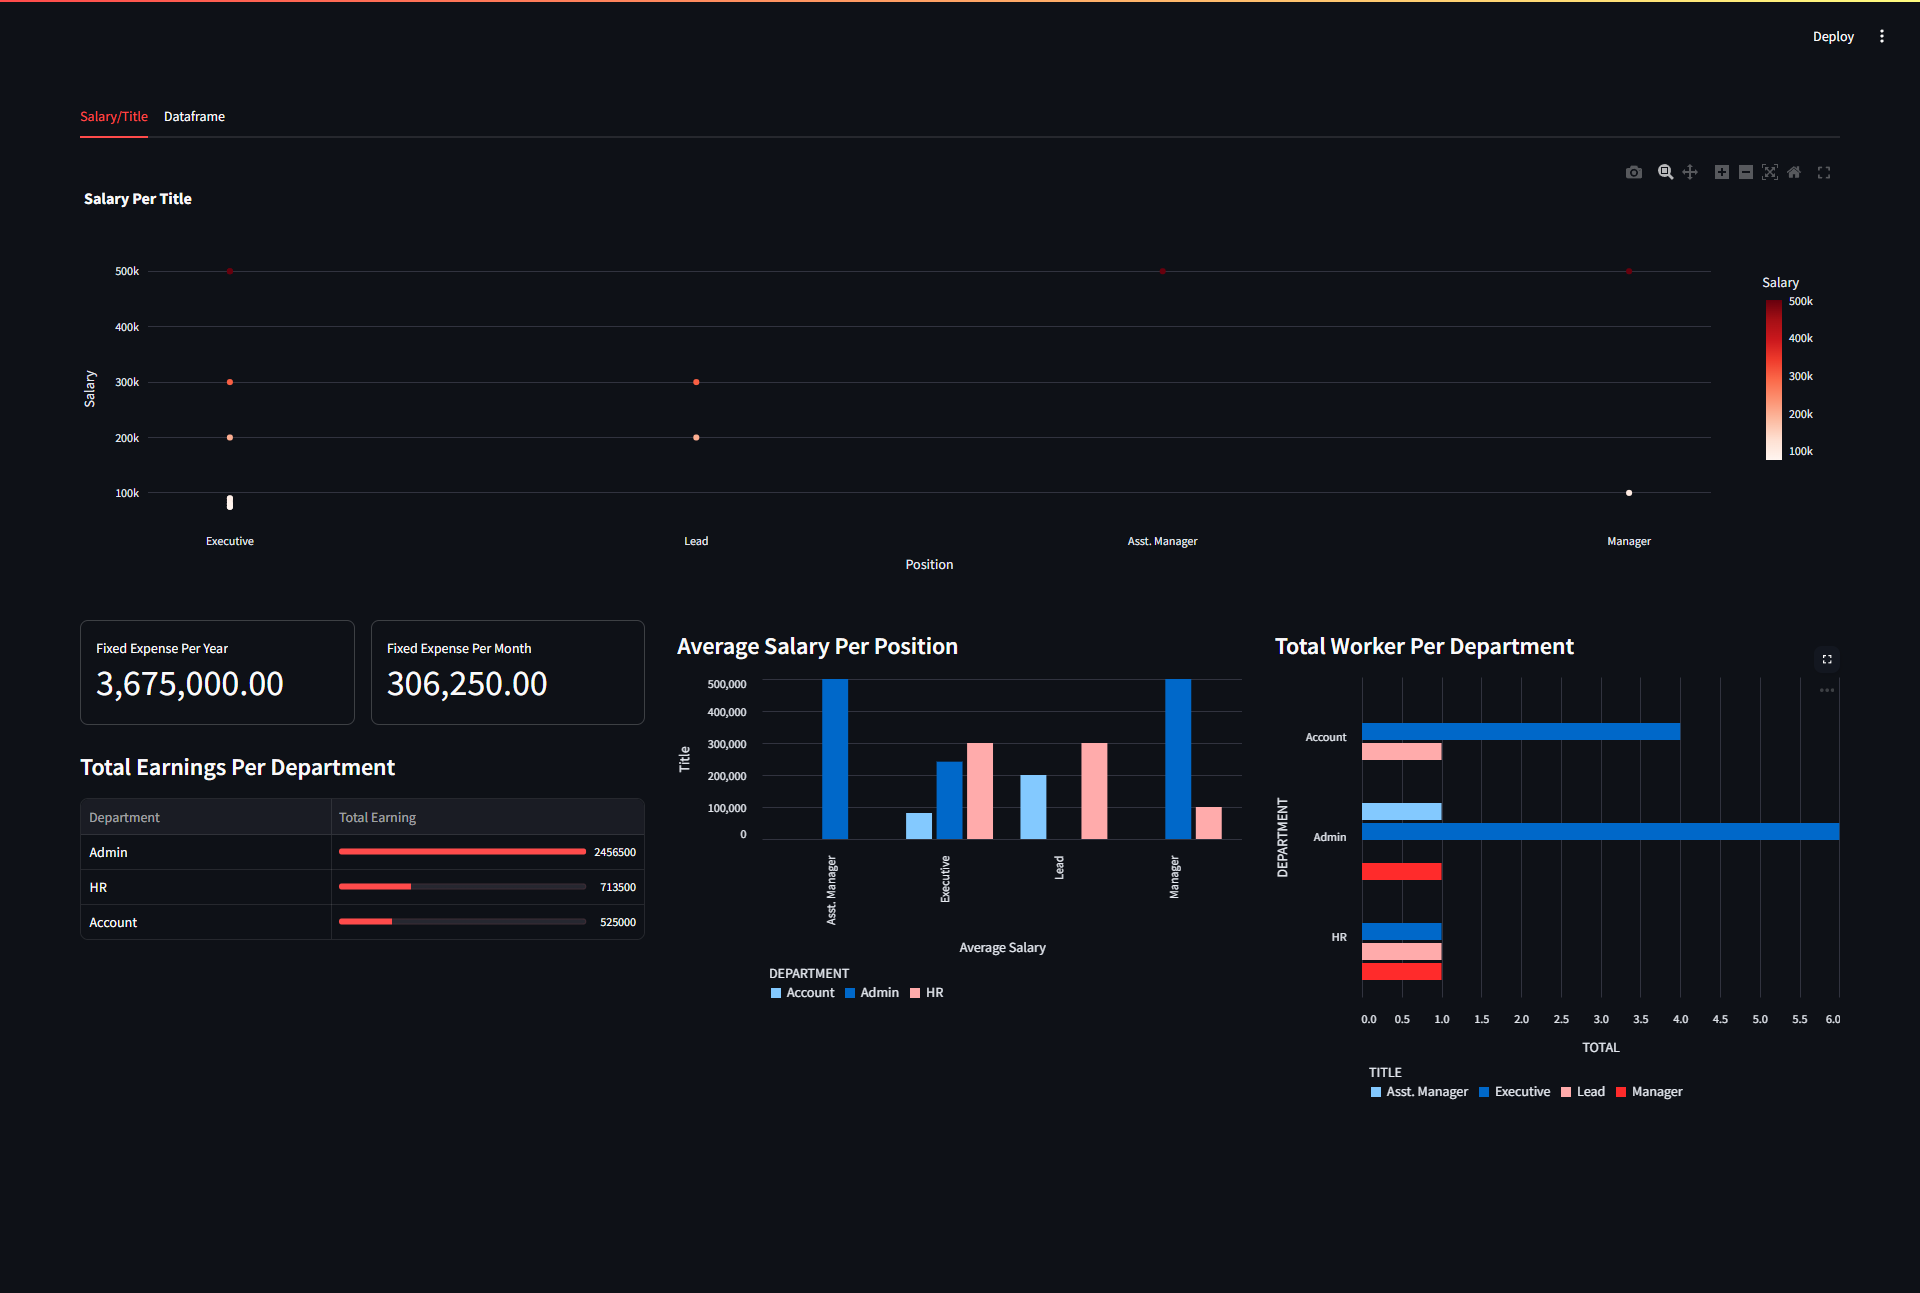
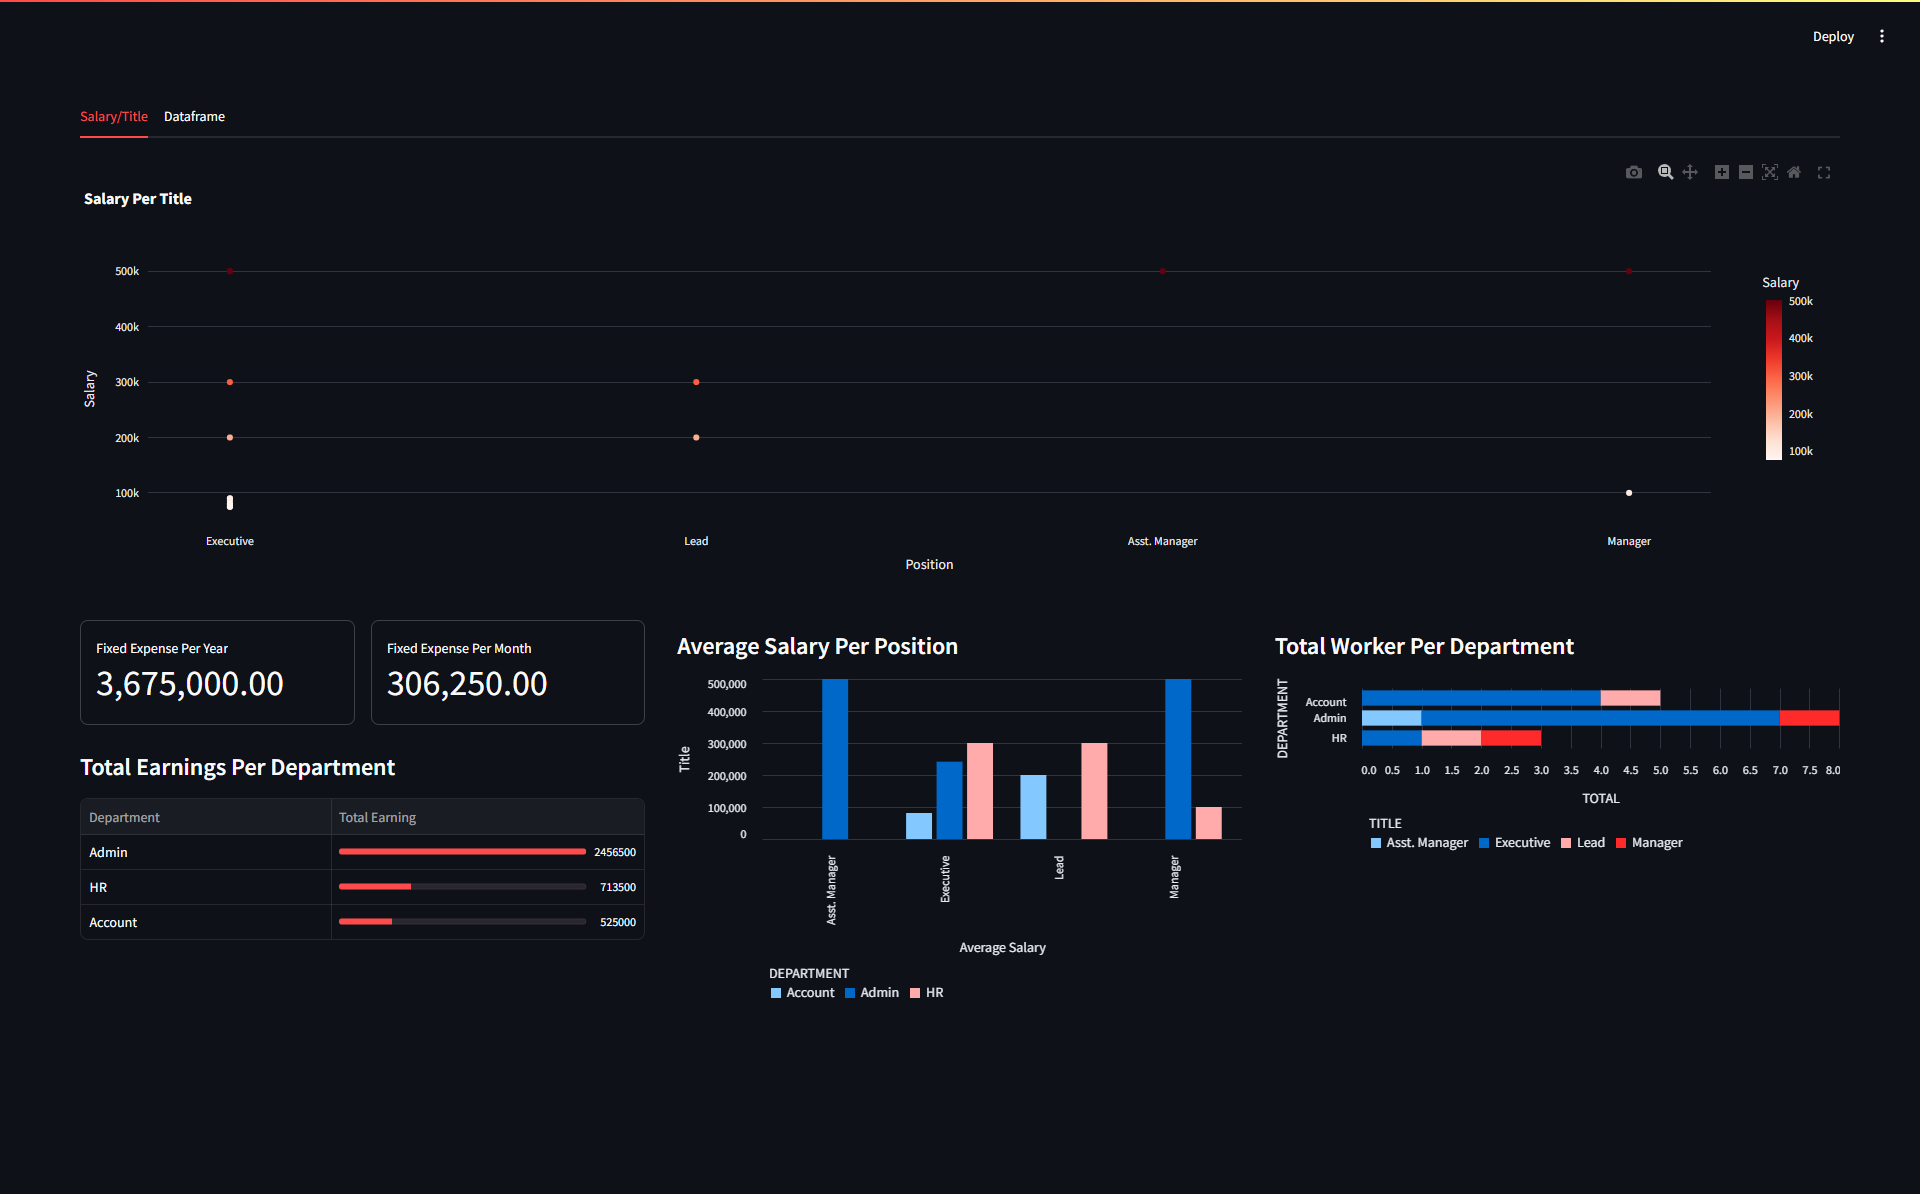
Update Worker/Dept Graph

diff --git a/dashboard.py b/dashboard.py
@@ -77,7 +77,7 @@ with cols[1]:
 
 with cols[2]:
     st.markdown("#### Total Worker Per Department")
-    st.bar_chart(total_worker_per_department, x="DEPARTMENT", y="TOTAL", stack=False, color="TITLE", horizontal=True)
+    st.bar_chart(total_worker_per_department, x="DEPARTMENT", y="TOTAL", stack=True, color="TITLE", horizontal=True)
 
     
 
